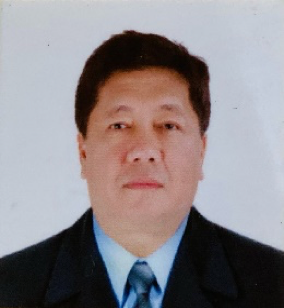
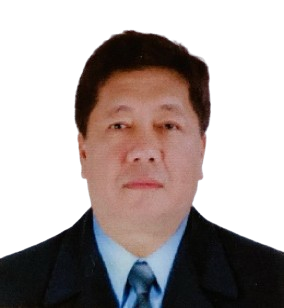
update

diff --git a/index.html b/index.html
@@ -39,6 +39,7 @@
     />
     <script src="https://cdnjs.cloudflare.com/ajax/libs/gsap/3.12.2/gsap.min.js"></script>
     <script src="https://cdnjs.cloudflare.com/ajax/libs/gsap/3.12.2/ScrollTrigger.min.js"></script>
+    <script src="https://code.jquery.com/jquery-3.6.4.min.js"></script>
 
     <script type="application/ld+json">
       {
@@ -52,6 +53,14 @@
   </head>
 
   <body class="animate__animated animate__fadeIn" id="home">
+    <div id="loading">
+      <img
+        id="loading-image"
+        src="https://i.pinimg.com/originals/d7/ab/5f/d7ab5f8402e2d08ae29259c898d2f19c.gif"
+        alt="Loading..."
+      />
+    </div>
+
     <header id="header">
       <!-- Logo -->
       <div class="logo" id="zoom-in_out">
@@ -309,6 +318,10 @@
     ></script>
     <script src="https://cdn.jsdelivr.net/npm/bootstrap@5.3.3/dist/js/bootstrap.bundle.min.js"></script>
     <script>
+      $(window).on("load", function () {
+        $("#loading").hide();
+      });
+
       document.querySelectorAll(".permit-img").forEach((img) => {
         img.onload = () => img.classList.add("loaded");
       });

diff --git a/investors-and-relations-main.html b/investors-and-relations-main.html
@@ -14,7 +14,11 @@
     />
     <title>Investors and Relations</title>
     <!-- Favicon -->
-    <link href="GSMCI-Pictures/Logos/GSMCI Logo low.ico" rel="icon" type="image/x-icon"/>
+    <link
+      href="GSMCI-Pictures/Logos/GSMCI Logo low.ico"
+      rel="icon"
+      type="image/x-icon"
+    />
     <link href="css/header&drawer-menu.css" rel="stylesheet" />
     <link
       rel="stylesheet"
@@ -31,6 +35,9 @@
       href="https://cdnjs.cloudflare.com/ajax/libs/font-awesome/4.7.0/css/font-awesome.min.css"
     />
     <style>
+      body {
+        background: conic-gradient(from 46deg, #18c5ff2b, #fdfdfd00, #64ffbe21);
+      }
       @font-face {
         font-family: "AppleGaramond-Bold";
         src: url("apple_garamond-font/AppleGaramond-Bold.ttf")

diff --git a/career-main.html b/career-main.html
@@ -14,7 +14,11 @@
     />
     <title>Career</title>
     <!-- Favicon -->
-    <link href="GSMCI-Pictures/Logos/GSMCI Logo low.ico" rel="icon" type="image/x-icon"/>
+    <link
+      href="GSMCI-Pictures/Logos/GSMCI Logo low.ico"
+      rel="icon"
+      type="image/x-icon"
+    />
     <link href="css/header&drawer-menu.css" rel="stylesheet" />
     <link
       rel="stylesheet"
@@ -32,6 +36,9 @@
       href="https://cdnjs.cloudflare.com/ajax/libs/font-awesome/4.7.0/css/font-awesome.min.css"
     />
     <style>
+      body {
+        background: conic-gradient(from 46deg, #18c5ff2b, #fdfdfd00, #64ffbe21);
+      }
       @font-face {
         font-family: "AppleGaramond-Bold";
         src: url("apple_garamond-font/AppleGaramond-Bold.ttf")

diff --git a/organizational-chart-main.html b/organizational-chart-main.html
@@ -14,7 +14,11 @@
     />
     <title>Organizational Chart</title>
     <!-- Favicon -->
-    <link href="GSMCI-Pictures/Logos/GSMCI Logo low.ico" rel="icon" type="image/x-icon"/>
+    <link
+      href="GSMCI-Pictures/Logos/GSMCI Logo low.ico"
+      rel="icon"
+      type="image/x-icon"
+    />
     <link href="css/header&drawer-menu.css" rel="stylesheet" />
     <link
       rel="stylesheet"
@@ -35,6 +39,9 @@
     <script src="https://cdnjs.cloudflare.com/ajax/libs/gsap/3.12.2/ScrollTrigger.min.js"></script>
 
     <style>
+      body {
+        background: linear-gradient(45deg, #fdfdfd00 50%, #18c5ff2b 100%);
+      }
       .orgbox {
         display: flex;
         flex-direction: row;

diff --git a/board-of-directors-main.html b/board-of-directors-main.html
@@ -265,8 +265,8 @@
       </div>
       <div class="box-img1 hdi2">
         <img
-          src="GSMCI-Pictures/Doctor's/PUTLI JAHALLIA A. FUERTE.jpeg"
-          data-src="GSMCI-Pictures/Doctor's/PUTLI JAHALLIA A. FUERTE.jpeg"
+          src="GSMCI-Pictures/Doctor's/PUTLI JAHALLIA A. FUERTE.png"
+          data-src="GSMCI-Pictures/Doctor's/PUTLI JAHALLIA A. FUERTE.png"
           class="lazyload blur-up"
           alt="PUTLI JAHALLIA A. FUERTE, RN, MMHoA"
           loading="lazy"

diff --git a/board-of-directors.html b/board-of-directors.html
@@ -62,8 +62,8 @@
   </div>
   <div class="box-img1 hdi2">
     <img
-      src="GSMCI-Pictures/Doctor's/PUTLI JAHALLIA A. FUERTE.jpeg"
-      data-src="GSMCI-Pictures/Doctor's/PUTLI JAHALLIA A. FUERTE.jpeg"
+      src="GSMCI-Pictures/Doctor's/PUTLI JAHALLIA A. FUERTE.png"
+      data-src="GSMCI-Pictures/Doctor's/PUTLI JAHALLIA A. FUERTE.png"
       class="lazyload blur-up"
       alt="PUTLI JAHALLIA A. FUERTE, RN, MMHoA"
       loading="lazy"

diff --git a/css/index.css b/css/index.css
@@ -21,6 +21,27 @@ body {
   padding: 0;
 }
 
+#loading {
+  position: fixed;
+  display: block;
+  width: 100%;
+  height: 100vh;
+  top: 0;
+  left: 0;
+  text-align: center;
+  background-color: #000;
+  z-index: 99999;
+}
+
+#loading-image {
+  position: fixed;
+  z-index: 99999;
+  left: 0;
+  top: 0;
+  width: 100%;
+  height: 100vh;
+}
+
 .content1 {
   margin: 20vh 0 20vh 0;
 }

diff --git a/css/disclosures-main.css b/css/disclosures-main.css
@@ -15,7 +15,7 @@
 
 /* General body styling */
 body {
-  background-color: whitesmoke;
+   background: conic-gradient(from 46deg, #18c5ff2b, #fdfdfd00, #64ffbe21);
   scroll-behavior: smooth;
   margin: 0;
   padding: 0;

diff --git a/css/services-main.css b/css/services-main.css
@@ -15,7 +15,7 @@
 
 /* General body styling */
 body {
-  background-color: whitesmoke;
+   background: conic-gradient(from 46deg, #18c5ff2b, #fdfdfd00, #64ffbe21);
   scroll-behavior: smooth;
   margin: 0;
   padding: 0;

diff --git a/css/contact-us-main.css b/css/contact-us-main.css
@@ -15,7 +15,7 @@
 
 /* General body styling */
 body {
-  background-color: whitesmoke;
+  background: conic-gradient(from 46deg, #18c5ff2b, #fdfdfd00, #64ffbe21);
   scroll-behavior: smooth;
   margin: 0;
   padding: 0;

diff --git a/css/directory-main.css b/css/directory-main.css
@@ -15,7 +15,7 @@
 
 /* General body styling */
 body {
-  background-color: whitesmoke;
+  background: conic-gradient(from 46deg, #18c5ff2b, #fdfdfd00, #64ffbe21);
   scroll-behavior: smooth;
   margin: 0;
   padding: 0;

diff --git a/css/news-and-updates-main.css b/css/news-and-updates-main.css
@@ -15,7 +15,7 @@
 
 /* General body styling */
 body {
-  background-color: whitesmoke;
+  background: conic-gradient(from 46deg, #18c5ff2b, #fdfdfd00, #64ffbe21);
   scroll-behavior: smooth;
   margin: 0;
   padding: 0;
